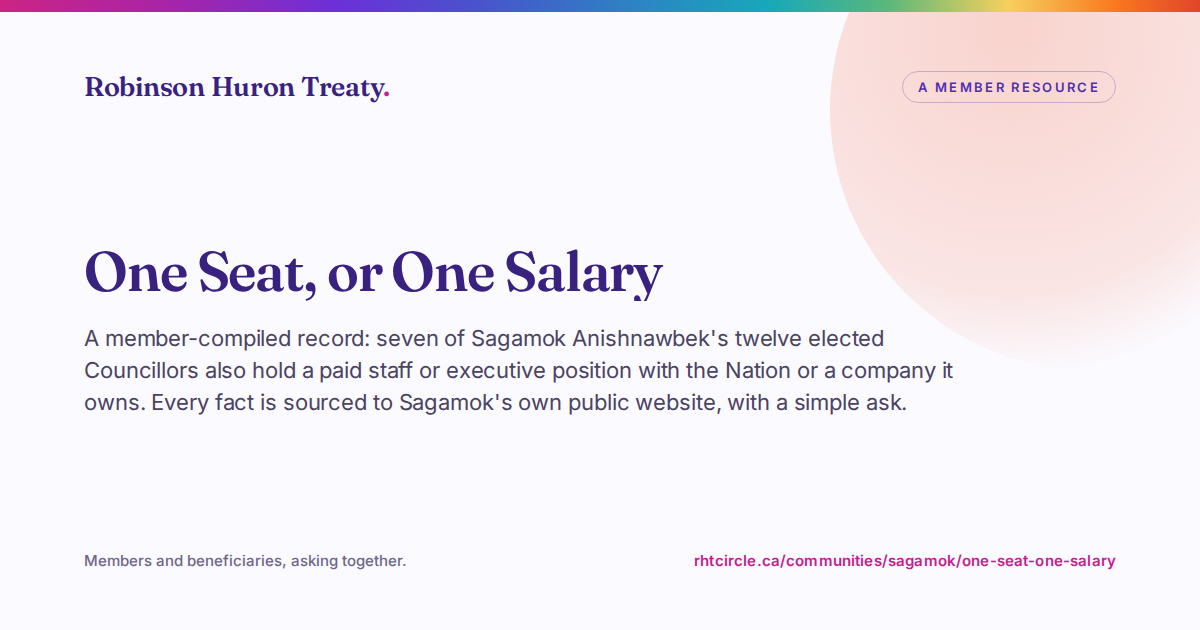
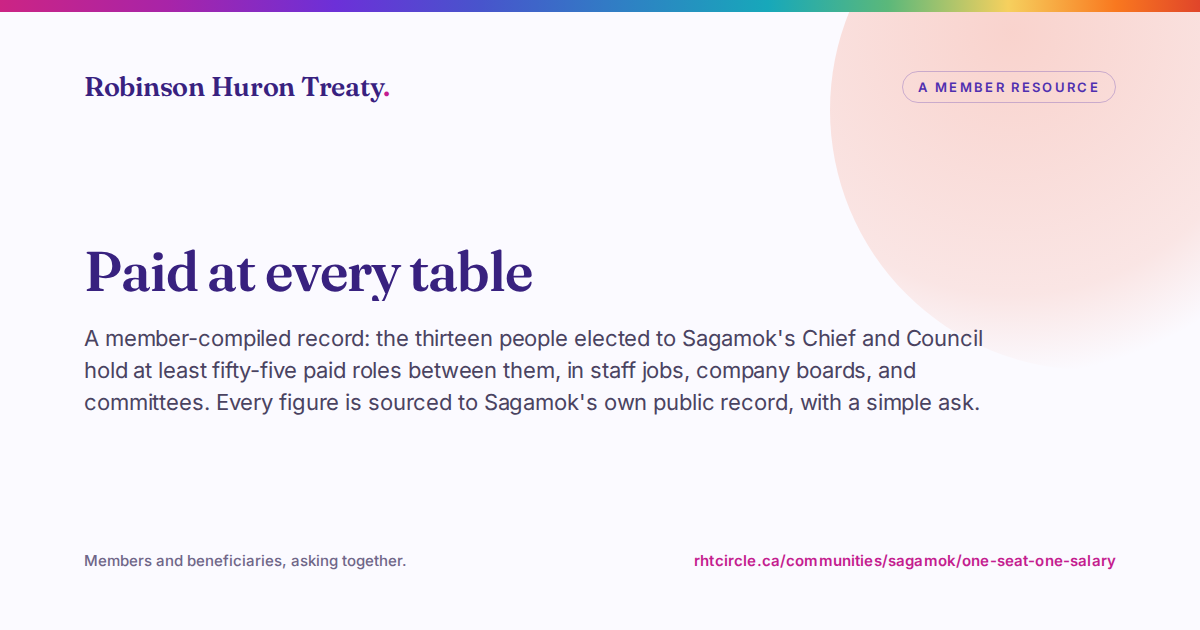
Expand /communities/sagamok/one-seat-one-salary to "Paid at every table"
Same URL, fuller frame: 13 elected people (Chief + 12 Councillors) hold at
least 55 paid roles between them, not just the 7 staff jobs the page
previously documented. Adds a company-board-seats table (28 seats across 8
Nation/ZEI-linked companies) and a committee-seats table (7 seats, from
councillors' own bio pages), keeps the existing verified staff-jobs table,
and updates the principle/ask sections with the new totals and sourced pay
figures.

Every new claim was checked live before publishing:
- The Z'gamok Enterprises board (6) and the Z'gamok Construction Limited
  Partnership general partner, 11017624 Canada Corp (6), both confirmed
  directly (zgamok.ca and Corporations Canada's free federal registry,
  respectively; the Corporations Canada corporation number is cited inline
  as a directly-checkable source).
- GR Truss and Sagamok Real Estate Co reuse this site's own previously-
  verified board data.
- OCL, ZEI-Stuart Olson, Legend Mining, and Robinson Huron Forestry Company
  are confirmed real/active via the Ontario Business Registry's free
  search; their full director rosters sit behind Ontario's paid registry
  tier (consistent with this site's existing how-its-organized.html.twig
  note that Legend Mining and Robinson Huron Forestry rosters are
  paywalled and not yet independently re-purchased).
- Added Arnelda Bennett to the Legend Mining row: her own published
  councillor bio lists her as a director there, which the original figure
  omitted.
[…]

Changed region(s): [[0.0617, 0.5127, 0.8325, 0.6635], [0.0617, 0.3921, 0.555, 0.4825]]

diff --git a/src/Content/CommunityHub.php b/src/Content/CommunityHub.php
@@ -162,8 +162,8 @@ final class CommunityHub
             [
                 'feature' => true,
                 'tag' => "A member's ask",
-                'title' => 'One Seat, or One Salary',
-                'desc' => 'Seven of Sagamok\'s twelve elected Councillors also hold a paid staff or executive position with the Nation or a company it owns. What the public record shows, and a simple ask.',
+                'title' => 'Paid at every table',
+                'desc' => 'The thirteen people elected to Sagamok\'s Chief and Council hold at least fifty-five paid roles between them, in staff jobs, company boards, and committees. What the public record shows, and a simple ask.',
                 'go' => 'Read the record',
                 'href' => '/communities/sagamok/one-seat-one-salary',
             ],